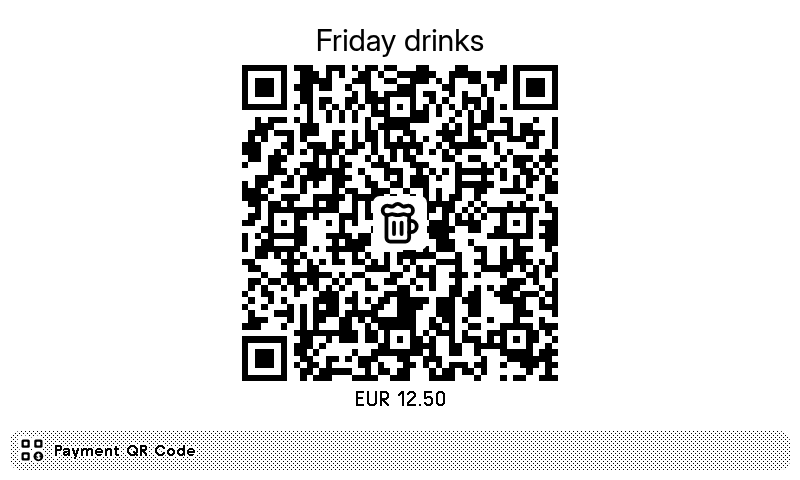
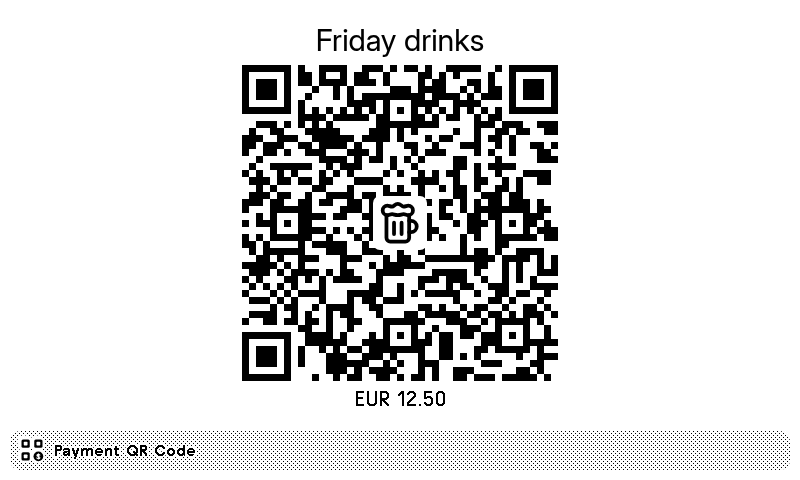
Fewer settings, conditional required fields, TRMNL font set in tests
Settings go from 24 to 14: text size, QR size, error correction, accent,
BIC, account details, webhook expiry and the title bar toggle are now
automatic. An empty or zero amount lets the payer choose. Name and IBAN
are required for SEPA, the link for link/text.

Claude-Session: https://claude.ai/code/session_015KWCEBPpm133rR4g2PPK7e

Changed region(s): [[0.2812, 0.125, 0.7188, 0.8125]]

diff --git a/docs/index.html b/docs/index.html
@@ -96,10 +96,7 @@
             <div><label for="epc_name">Beneficiary name</label><input id="epc_name" maxlength="70"></div>
             <div><label for="epc_iban">IBAN</label><input id="epc_iban" spellcheck="false"><div class="hint" id="ibanHint"></div></div>
           </div>
-          <div class="row">
-            <div><label for="epc_bic">BIC <small>optional</small></label><input id="epc_bic" spellcheck="false"></div>
-            <div><label for="epc_reference">Reference</label><input id="epc_reference" maxlength="140"></div>
-          </div>
+          <label for="epc_reference">Reference</label><input id="epc_reference" maxlength="140">
           <div class="row">
             <div>
               <label for="amount_mode">Amount</label>
@@ -183,7 +180,7 @@
 const BAKED_WEBHOOK = null;
 
 const KEY = 'payment-qr-webhook';
-const FIELDS = ['payment_type', 'epc_name', 'epc_iban', 'epc_bic', 'epc_reference', 'amount_mode', 'epc_amount',
+const FIELDS = ['payment_type', 'epc_name', 'epc_iban', 'epc_reference', 'amount_mode', 'epc_amount',
   'qr_text', 'title', 'caption', 'body', 'footer', 'layout', 'icon', 'image_url'];
 const MAX_BYTES = 2000;
 const UUID = /[0-9a-f]{8}-[0-9a-f]{4}-[0-9a-f]{4}-[0-9a-f]{4}-[0-9a-f]{12}/i;
@@ -228,12 +225,18 @@ function readForm() {
     if (v) p[f] = f === 'epc_iban' ? v.replace(/\s+/g, '').toUpperCase() : v;
   });
   if (p.epc_amount && Number(p.epc_amount.replace(',', '.')) > 0) p.epc_amount = Number(p.epc_amount.replace(',', '.')).toFixed(2);
-  if (p.amount_mode === 'open') delete p.epc_amount;
+  if (p.amount_mode === 'open') p.epc_amount = '0';
+  else if (p.amount_mode === 'fixed' && !p.epc_amount) delete p.epc_amount;
+  delete p.amount_mode;
   return p;
 }
 
 function fillForm(p) {
   FIELDS.forEach((f) => { $(f).value = (p && p[f] != null) ? p[f] : ''; });
+  // the template treats an amount of 0 as "payer chooses"
+  const a = p && p.epc_amount;
+  $('amount_mode').value = a == null || a === '' ? '' : Number(String(a).replace(',', '.')) > 0 ? 'fixed' : 'open';
+  if ($('amount_mode').value === 'open') $('epc_amount').value = '';
   refresh();
 }
 
@@ -260,8 +263,8 @@ function amountValue() {
 // ---- preview (mirrors the template's EPC string)
 function epcString(p) {
   if (!p.epc_iban || !p.epc_name) return null;
-  const amount = p.amount_mode !== 'open' && p.epc_amount ? Number(p.epc_amount.replace(',', '.')) : 0;
-  return ['BCD', '002', '1', 'SCT', (p.epc_bic || '').replace(/\s+/g, '').toUpperCase(), p.epc_name, p.epc_iban,
+  const amount = p.epc_amount ? Number(p.epc_amount.replace(',', '.')) : 0;
+  return ['BCD', '002', '1', 'SCT', '', p.epc_name, p.epc_iban,
     amount > 0 ? 'EUR' + amount.toFixed(2) : '', '', '', p.epc_reference || ''].join('\n');
 }
 
@@ -291,7 +294,7 @@ function refresh() {
   }
   let caption = p.caption || '';
   if (!caption && type !== 'text') {
-    if (p.amount_mode === 'open') caption = 'Any amount';
+    if (p.epc_amount === '0') caption = 'Any amount';
     else if (amount) caption = 'EUR ' + amount.toFixed(2);
   }
   $('previewCaption').textContent = caption;

diff --git a/test/shots.py b/test/shots.py
@@ -11,8 +11,8 @@ CHROME = os.environ.get('CHROME') or sorted(
                 for d in os.listdir(os.path.expanduser('~/.cache/ms-playwright')) if d.startswith('chromium-'))
     if os.path.exists(p))[-1]
 
-OG = 'screen--og screen--md screen--1bit screen--density-1x'
-X = 'screen--v2 screen--lg screen--4bit screen--density-2x'
+OG = 'screen--og screen--md screen--1bit screen--density-1x screen--fonts-trmnl'
+X = 'screen--v2 screen--lg screen--4bit screen--density-2x screen--fonts-trmnl'
 DEVICES = {  # name: (view, window w, h, slot or None, classes)
     'full': ('full', 800, 480, None, OG),
     'half_h': ('half_horizontal', 800, 480, (800, 240), OG),
@@ -20,26 +20,25 @@ DEVICES = {  # name: (view, window w, h, slot or None, classes)
     'quad': ('quadrant', 800, 480, (400, 240), OG),
     'portrait': ('full', 480, 800, None, OG + ' screen--portrait'),
     'x': ('full', 1872, 1404, None, X),
-    'sm': ('full', 1400, 840, None, 'screen--amazon_kindle_2024 screen--sm screen--density-2x screen--4bit'),
-    'sm_half_v': ('half_vertical', 1400, 840, (400, 480), 'screen--amazon_kindle_2024 screen--sm screen--density-2x screen--4bit'),
-    'bwry': ('full', 800, 480, None, 'screen--og screen--md screen--density-1x screen--color-4bwry'),
+    'sm': ('full', 1400, 840, None, 'screen--amazon_kindle_2024 screen--sm screen--density-2x screen--4bit screen--fonts-trmnl'),
+    'sm_half_v': ('half_vertical', 1400, 840, (400, 480), 'screen--amazon_kindle_2024 screen--sm screen--density-2x screen--4bit screen--fonts-trmnl'),
+    'classic': ('full', 800, 480, None, 'screen--og screen--md screen--1bit screen--density-1x screen--fonts-classic'),
+    'bwry': ('full', 800, 480, None, 'screen--og screen--md screen--density-1x screen--color-4bwry screen--fonts-trmnl'),
 }
 CASES = {  # name: (custom field overrides, devices)
     'split': ({}, list(DEVICES)),
-    'text_large': ({'text_size': 'large'}, ['full', 'x', 'half_h']),
-    'bwry_yellow': ({'accent': 'yellow', 'layout': 'poster', 'visual_position': 'top'}, ['bwry']),
-    'split_reverse_open': ({'layout': 'split_reverse', 'amount_mode': 'open', 'show_details': 'true'}, ['full', 'half_h']),
+    'bwry_poster': ({'layout': 'poster', 'visual_position': 'top'}, ['bwry']),
+    'split_reverse_open': ({'layout': 'split_reverse', 'epc_amount': ''}, ['full', 'half_h']),
     'poster': ({'layout': 'poster', 'visual_position': 'top', 'icon': 'heart', 'title': 'Support the team'}, ['full', 'half_v', 'half_h', 'quad']),
     'qr_only': ({'layout': 'qr_only', 'title': '', 'caption': 'Scan to pay'}, ['full', 'half_v', 'quad']),
     'qr_icon': ({'layout': 'poster', 'visual_position': 'qr', 'icon': 'beer', 'title': 'Friday drinks', 'footer': ''}, ['full', 'half_h', 'quad', 'x']),
     'qr_icon_long': ({'layout': 'split', 'visual_position': 'qr', 'icon': 'heart', 'epc_reference': 'Membership 2026 for the tennis club, family plan, two adults and three kids'}, ['full', 'quad']),
-    'link_long_text': ({'payment_type': 'text', 'qr_text': 'https://paypal.me/yourname/5', 'caption': 'PayPal', 'text_size': 'large',
+    'link_long_text': ({'payment_type': 'text', 'qr_text': 'https://paypal.me/yourname/5', 'caption': 'PayPal', 
                         'body': '# Club membership\n\n' + 'Pay your yearly membership before the end of the month. ' * 6 + '\n\n- One\n- Two\n- Three'},
                        ['full', 'half_v', 'portrait']),
     'webhook': ({'__payment': {'epc_amount': '42', 'epc_reference': 'Pizza night', 'title': 'Pizza night', 'icon': 'food',
                               'body': 'Thanks for joining! **EUR 42** for the pizzas.', 'updated_at': 1700000000}}, ['full']),
-    'webhook_expired': ({'override_hours': '1', '__payment': {'title': 'SHOULD NOT SHOW', 'updated_at': 1700000000}}, ['full']),
-    'webhook_open': ({'__payment': {'amount_mode': 'open', 'caption': 'Pay what you like'}}, ['full']),
+    'webhook_open': ({'__payment': {'epc_amount': '0', 'caption': 'Pay what you like'}}, ['full']),
     'empty': ({'epc_iban': '', 'body': ''}, ['full']),
 }
 

diff --git a/README.md b/README.md
@@ -8,7 +8,8 @@ Show a scannable payment QR code with your own text on a TRMNL.
 - **Any link or text**: PayPal.me, Revolut, Payconiq, Stripe, Bitcoin, ...
 - **Layouts**: QR left with text right (or reversed), poster (title, QR, footer), QR only. Side-by-side layouts stack on portrait screens and half vertical mashups.
 - Markdown text that shrinks to fit, an icon or your own image (next to the title, above the text, or in the middle of the QR code)
-- All four view sizes, OG, TRMNL X and `sm` devices; an accent color on color panels (BWRY etc.)
+- All four view sizes, OG, TRMNL X and `sm` devices; red accents on color panels (BWRY etc.)
+- Few settings: text size, QR size and error correction are chosen automatically
 
 | | |
 |---|---|
@@ -17,7 +18,7 @@ Show a scannable payment QR code with your own text on a TRMNL.
 
 ## Optional webhook
 
-The plugin settings are the defaults. Data sent to the plugin's webhook overrides them field by field, for example a new amount and reference per payment. Clearing it shows the settings again; the "Webhook Data Expires After" setting can do that automatically.
+The plugin settings are the defaults. Data sent to the plugin's webhook overrides them field by field, for example a new amount and reference per payment. Clearing it shows the settings again.
 
 **Web editor:** <https://excusemi.github.io/trmnl-payment-qr-code-plugin/>. Paste your webhook URL, change fields, send or clear. "Download my editor" saves a single HTML file with your webhook URL built in.
 
@@ -30,7 +31,7 @@ curl "https://trmnl.com/api/custom_plugins/<uuid>" -H "Content-Type: application
   -d '{"merge_variables": {"payment": {"epc_amount": "42.00", "epc_reference": "Pizza night", "updated_at": 1790000000}}}'
 ```
 
-Keys: `payment_type` (`epc`/`text`), `epc_name`, `epc_iban`, `epc_bic`, `amount_mode` (`fixed`/`open`), `epc_amount`, `epc_reference`, `qr_text`, `title`, `caption`, `body`, `footer`, `layout`, `icon`, `image_url`. TRMNL allows 12 webhook updates per hour and 2 KB of data.
+Keys: `payment_type` (`epc`/`text`), `epc_name`, `epc_iban`, `epc_amount` (`0` lets the payer choose), `epc_reference`, `qr_text`, `title`, `caption`, `body`, `footer`, `layout`, `icon`, `image_url`. TRMNL allows 12 webhook updates per hour and 2 KB of data.
 
 ## Development
 
